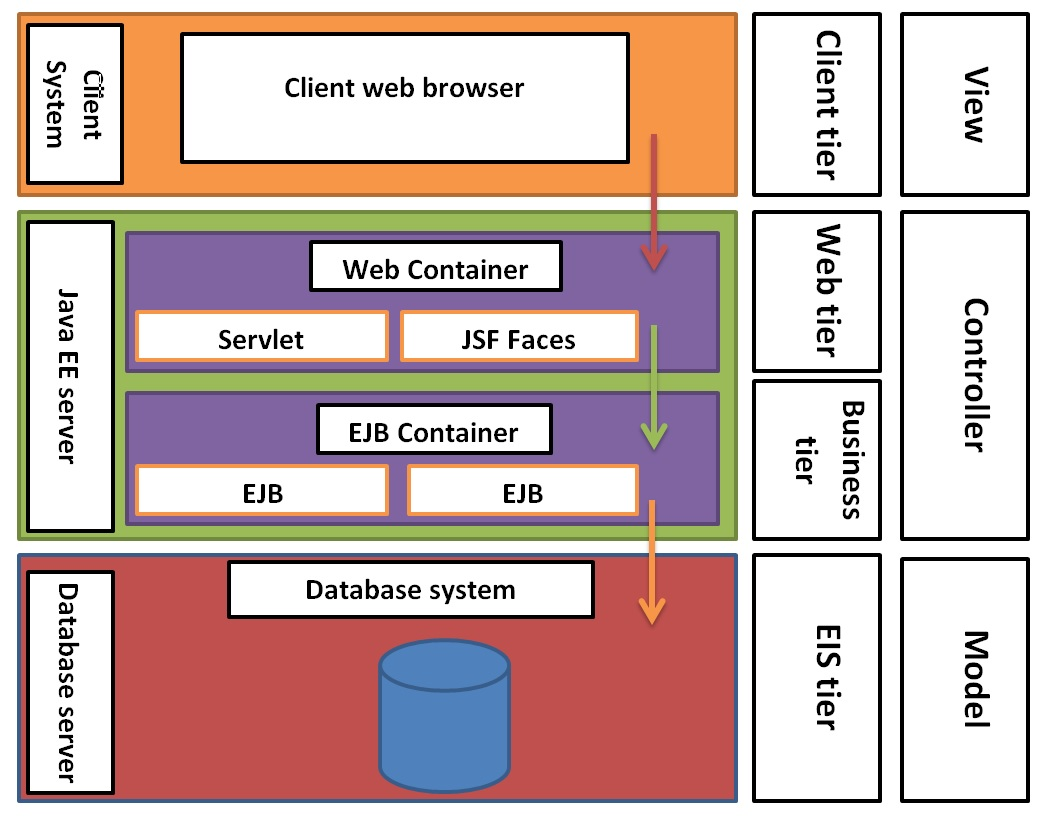
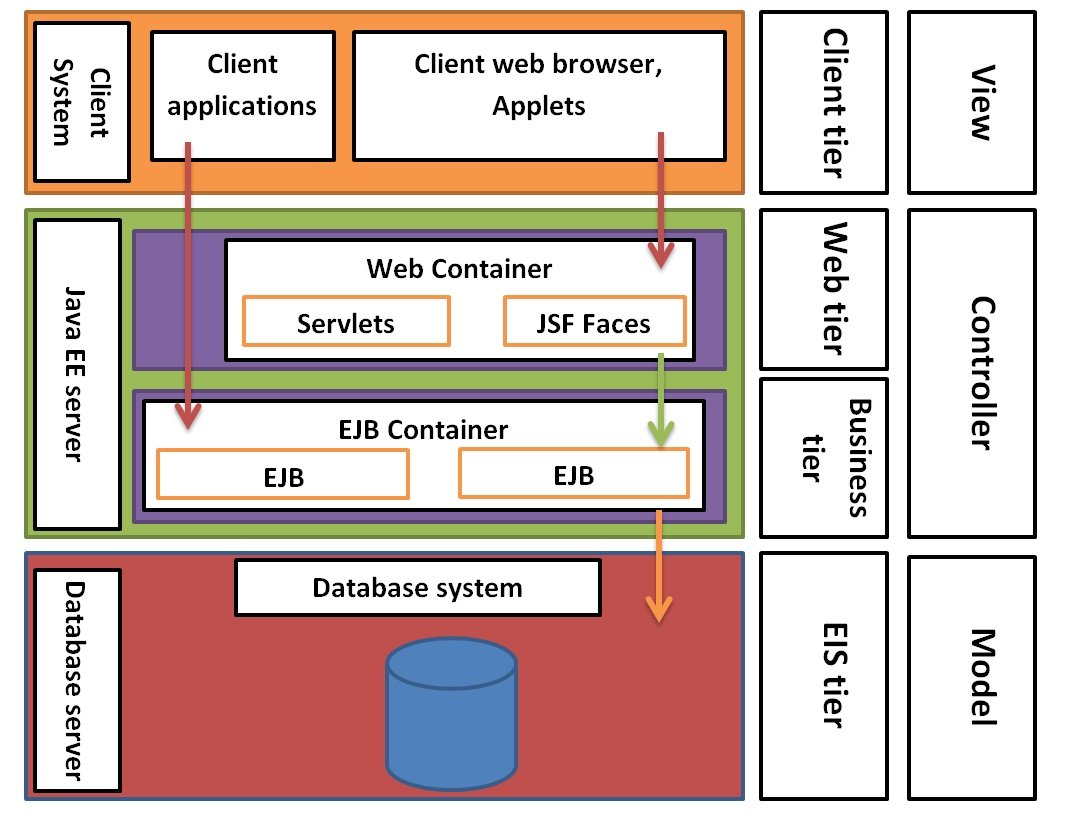
Updated Arch specs doc

diff --git a/Arch_Spec/Architecture_Specification_document.tex b/Arch_Spec/Architecture_Specification_document.tex
@@ -81,7 +81,7 @@ Mathys Ellis (12019837) \\[8em]
 \hline
 22/05/2014 & v 0.3 & Transferred architectural scope to architectural requirements specification document. Began editing. & Mathys Ellis \\
 \hline
-23/05/2014 & v 0.3 & Added references and citations. & Alfred Ngako \\
+23/05/2014 & v 0.4 & Added to and edited architectural patterns and style. & Mathys Ellis \\
 \hline
 %\end{tabbing}
 \end{tabular}
@@ -141,11 +141,12 @@ The requirements, vision and scope were elicited from the following sources:
 \subsection{References:}
 \vspace{0.1in}
 \begin{itemize}
-\item Dr.Phol, K., 2010, \textit{Requirements Engineering: Fundamentals, Principles, and Techniques}, Springer, Heidelberg.
+\item Kang, A. August 9, 2002, \textit{Enterprise application integration using J2EE}, Available from: http://www.javaworld.com/article/2074488/enterprise-java/enterprise-application-integration-using-j2ee.html , [Accessed on: 17 May 2014]
 \item Ali Babar, M., \textit{Architectural Patterns and Frameworks, Week 3, Lecture 3},Available from: https://blog.itu.dk/MSAR-E2013/files/2013/09/wk3\_lect3\_patternsframeworktactics.pdf, [Accessed on: 21 May 2014]
-\item Oracle. April 2014, \textit{The Java EE 7 Tutorial}, Available from: http://docs.oracle.com/javaee/7/tutorial/doc/overview.htm , [Accessed on: 20 May 2014]
-\item Abraham Kang. August 9, 2002, \textit{Enterprise application integration using J2EE}, Available from: http://www.javaworld.com/article/2074488/enterprise-java/enterprise-application-integration-using-j2ee.html , [Accessed on: 17 May 2014]
+\item Dr.Phol, K., 2010, \textit{Requirements Engineering: Fundamentals, Principles, and Techniques}, Springer, Heidelberg.
+\item Kayal, D., 2008, \textit{Pro Java EE Spring Patterns: Best Practices and Design Strategies Implementing Java EE patterns with Spring Framework}, Apress, New York.
 \item Jendrock E, Cervera-Navarro R, Evans I, Haase K, Markito W, \textit{The Java EE 7 Tutorial}, Available from: http://docs.oracle.com/javaee/7/tutorial/doc/home.htm , [Accessed on: 20 May 2014]
+\item Oracle. April 2014, \textit{The Java EE 7 Tutorial}, Available from: http://docs.oracle.com/javaee/7/tutorial/doc/overview.htm , [Accessed on: 20 May 2014]
 \end{itemize}	
 
 \vspace{0.5in}
@@ -170,22 +171,31 @@ This section can be found in the architecture requirements specification documen
 
 % Mention of how Java EE actually doesn't require use of GoF design patterns >> http://www.theserverside.com/tip/With-Java-EE-7-your-Design-Patterns-are-dead-And-your-EAR-is-ugly-too <<
 
-The system will employ the Model-View-Controller, MVC, architectural pattern combined with a multi-tier/layered architectural pattern due to the Java EE system architecture. This will allow the client(s) to be decoupled from the server. Further this allows the view, the controller and the model each to have its own set of layers. Both of these patterns provide various benefits and are widely used. Some benefits include modularity, encapsulation, re-usability of components, decoupling and system maintainability [Ali Babar, M.] [Oracle, 2014]\\
+The system will employ the Model-View-Controller, MVC, architectural pattern combined with a multi-tier/layered architectural pattern to form what is known as the Java Enterprise Edition system architecture. This will allow the client(s) to be decoupled from the server. Further this allows the view, the controller and the model each to have its own set of layers. Both of these patterns provide various benefits and are widely used. Some benefits include modularity, encapsulation, re-usability of components, decoupling and system maintainability [Ali Babar, M.] [Oracle, 2014][Kayal, D., 2008]\\
 \\
-The Java EE system architecture is designed to support highly scalable, distributed, transactional, and portable applications that use the speed, security, and reliability of a Java EE server to provide powerful enterprise applications. [Oracle, 2014] For this reason SoftServe believes this system architecture is well suited for the development of the Post-Doctoral application management system as it will satisfy the requirements in terms of quality and functional as stipulated by the client. The following diagram provides the system architectural that will be employed by the system:
+The Java EE system architecture is designed to support highly scalable, distributed, transactional, and portable applications that use the speed, security, and reliability of a Java EE server to provide powerful enterprise applications. [Oracle, 2014] For this reason SoftServe believes this system architecture is well suited for the development of the Post-Doctoral application management system as it will satisfy the requirements in terms of quality and functional as stipulated by the client. The following diagram provides the system architectural that will be employed by the system:\\
 
-\begin{figure}[ht!]
+\begin{figure}[H]
+\centering
 \includegraphics[scale=0.8]{../Images_Docs/Diagrams/Architecture/Java EE system architecture.jpg}
 \caption{Java EE system architecture}
 \end{figure}
 
-\subsection*{View}
-This component provides an interface to the under laying system to the user. This client is the web browser. It also incorporates components which are in the Web container(controller), such as Java Sever Faces. 
-\subsection*{Controller}
-This component is made up of two containers, the web container and the Enterprise container.
+\subsection{View}
+The View component of the system architecture is used to represent and encapsulate the front-end of the system. It contains the client tier of the Java EE system architecture. Thus this allows the system to decouple the front-end and the back-end components. Allowing various clients to access the back-end without having to duplicate certain back-end tiers for each client. [Kayal, D., 2008]
+\subsubsection{Client Tier}
+This tier runs on the client system and encapsulates the various components that a client system may use to access the Java EE server-side tiers. These components include dynamic web pages, Java applications and Java applets. In order to make the Post-doctoral application management system accessible to any stakeholder over the internet and provide a uniform user experience the system will only make use of the dynamic web pages component provided by the Java EE client tier. [Oracle, 2014]  
+\subsection{Controller}
+The controller component of the system architecture is used to provide the business logic and manage and manipulate the view's request in order to provide communication between the Model component and the View. This component therefore hosts the web tier and the business tier of the Java EE application. This component is located on the Java EE server which is a multi-threaded application server. [Kayal, D., 2008] [Oracle, 2014] 
+\subsubsection{Web Tier}
+This Tier runs on the Java EE server and hosts the Web container. It provides the management and web page generation support for the web pages that the system has to provide to the view through the user of servlets, Java ServerPages and Java ServerFaces Facelets. Facilitates the communication between the business tier and client tier for web browser clients and applets. Client applications do not have to make use of the Web Tier and can directly skip to the business tier. But as stipulated above the other types of client components will not be considered for the project. [Oracle, 2014]
+\subsubsection{Business Tier}
+This Tier also runs on the Java EE server and hosts the Enterprise Java Bean container. It provides the business logic section for the Java EE application in the form of Enterprise Java Beans which are simply classes that represent various persistence entities of the data base, system messages, sessions, etc. This tier communicates with EIS tier in order to get access the database and various other lower level infrastructures that the Java EE application requires. [Oracle, 2014]
 % More bullshit goes here.
-\subsection*{Model}
-This component is the actual database on which the system runs on. Which will be used as the centralised point of access with regards to applications being processed by the system as required by \client .
+\subsection{Model}
+The Model component of the system architecture contains the various persistence storage infrastructure and lower level system management features such as transaction processing. It hosts the Enterprise Information System tier of the Java EE application. [Kayal, D., 2008]
+\subsubsection{Enterprise Information Tier} 
+The EIS tier provides mainly the support for database systems that is used by the Java-EE application. This tier can run on the Java-EE server as a virtual server or on a physically different database server. Due to the project budget and technical constraints the former will used by the system. [Oracle, 2014] 
  
 %%%%%%%%%%%%%%%%%%%%%%%%%%%%%%%%%%%%%%%%%%%%%%%%%%%%%%%%%%%%%%%%%%%%%%%%%%%%%%%%%%%%%%%%%%%%%%%%%%%%%%%%%%%%%
 \section{Architectural Tactics and Strategies} % skipped till further notice.
@@ -255,10 +265,10 @@ This section discusses the requirements for the channels through which the syste
 \subsection{Access Channels}
 The system will be accessible by humans through the recent versions of the following browsers:
 \begin{enumerate}
-\item Mozilla Firefox,
-\item Google Chrome,
-\item Microsoft Internet Explorer
-\item Apple Safari, and
+\item Mozilla Firefox 20+
+\item Google Chrome 30+
+\item Microsoft Internet Explorer 9+
+\item Apple Safari
 \item Opera
 \end{enumerate}
 The mobile counterparts of the above mentioned browsers will also be catered for and so no other access channel (such as Android/Apple apps) is to be considered.

diff --git a/Arch_Req_Spec/Architecture_Requirements_Specification_document.tex b/Arch_Req_Spec/Architecture_Requirements_Specification_document.tex
@@ -219,12 +219,15 @@ The following architecture constraints have been selected by SoftServe group as 
 \item Database technology: MySQL
 \item Programming paradigm: Object-Oriented
 \item Programming language: Java
-\item System architecture: Java-EE
+\item System architecture: Java-EE 7
 \item Architectural framework: JSF, PAM
 \item Architectural pattern: MVC, Layered
 \item Development technologies: EJB, JSP, Expression Language, JDBC, Java Persistence API, JTA, Java EE Connector Architecture, JAX-RS, JAF, JavaMail, JNDI, JAAS, Concurrency Utilities for Java EE
+\item IDE: Netbeans 8.0
+\item Build environment: Apache Maven 3
 \item Web server software: GlassFish 4.0 server
 \item Web interface protocol: HTTPS
+\item Client web browser: Microsoft Internet explorer 9+, Google Chrome 30+, Mozilla FireFox 20+, Opera, Safari
 \item Client device operating systems: Windows, iOS, Android, Linux. 
 \end{enumerate}
 \vspace{0.5in}
